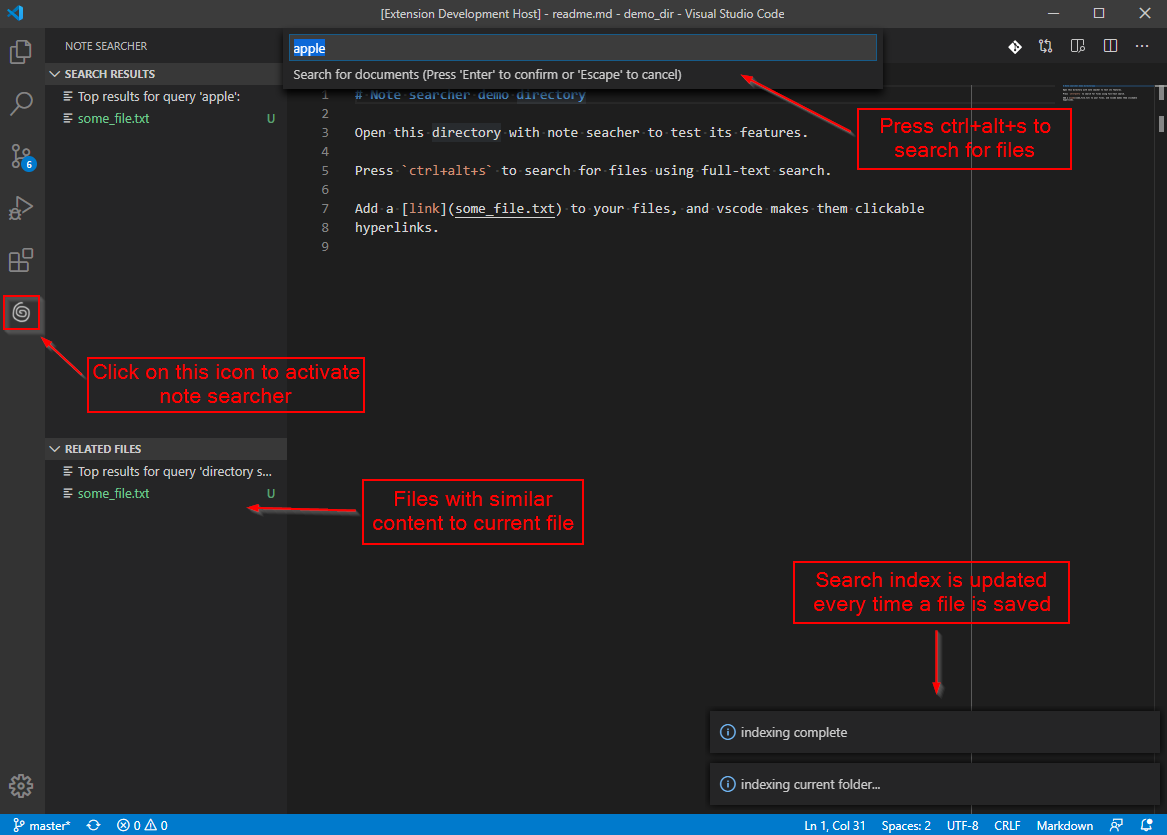
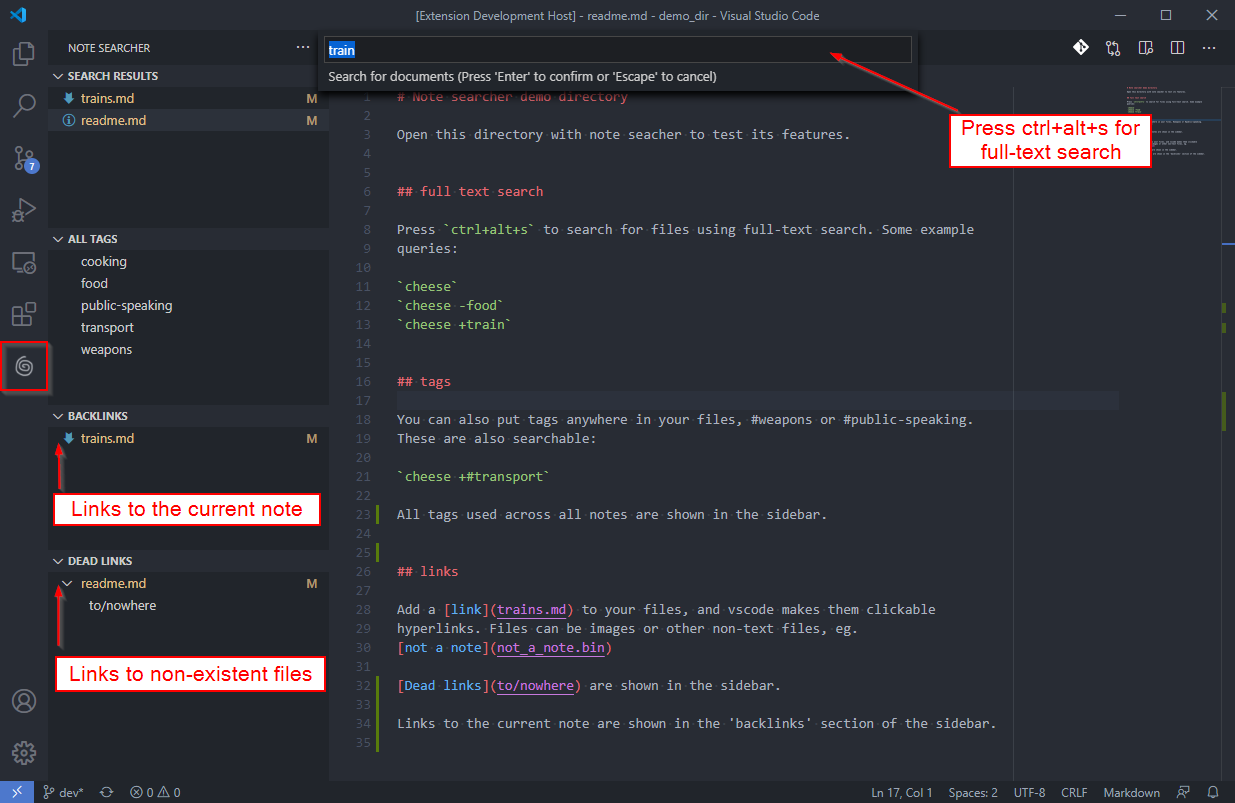
docs

diff --git a/vscode/README.md b/vscode/README.md
@@ -1,21 +1,32 @@
 # Note Searcher
 
-Tool for managing a knowledge base of text files, such as a zettelkasten.
+Tool for managing a knowledge base of text files, such as a zettelkasten. Works
+with a flat or hierarchical file structure. Similar to:
+
+- [The Archive](https://zettelkasten.de/the-archive/)
+- [Zettlr](https://www.zettlr.com/)
+- [Foam](https://foambubble.github.io/foam/)
 
 
 ## Feature summary
 
-- Full text search:  `ctrl+alt+s`
-- Create a new note: `ctrl+alt+n`
+- Full text search
+- Quick-create notes
 - Tag autocompletion
 - Copy markdown link to note from search results
 - Copy markdown link to note from editor tab
-- Find dead links
+- Shows backlinks in sidebar
+- Shows dead links in sidebar
+- Shows all tags in sidebar
 
 
 ## How to use this extension
 
 ![extension screenshot](./img/ext_screenshot.png)
+
+![create a new note](./img/new_note.png)
+
+![tag autocompletion](./img/tag_autocomplete.png)
 
 
 ### Full text search
@@ -40,10 +51,13 @@ tag-based searching. #hyphenated-tags are supported.
 When note searcher is enabled, typing '#' will show a list of tags which have
 been found in other files.
 
+All existing tags are shown in the sidebar, as per the screenshot.
+
 
 ### Creating notes
 
-Press `ctrl+alt+n` to create a new note in the currently open directory.
+Press `ctrl+alt+n` to create a new note in the same directory as the currently
+open note.
 
 
 ### Linking notes
@@ -57,10 +71,15 @@ You can copy a markdown-style link to a search result by right-clicking on
 the search result. You can also copy this link from an editor tab.
 
 
+### Backlinks
+
+Links to the currently open note are shown in backlinks section of the sidebar.
+
+
 ### Find dead links
 
-Dead links to other notes & local files are shown in the sidebar. Dead links
-are updated whenever a file is saved.
+Markdown links to files that can't be found are shown in the dead links section
+of the sidebar.
 
 
 ## UNDER CONSTRUCTION

diff --git a/readme.md b/readme.md
@@ -50,16 +50,6 @@ Run `npm run build_vsix` in the vscode directory.
 
 
 # todo
-- docs:
-    - add better subtitle than 'searches notes' in marketplace text
-    - reference similar software
-        - like [markdown notes](https://github.com/kortina/vscode-markdown-notes),
-          zettlr etc.
-    - update screenshots
-      - dead links
-      - backlinks
-      - tags
-      - removed related files
 - release
 - improve: activate extension immediately if already enabled in
   current dir (don't wait for activation events)

diff --git a/vscode/demo_dir/readme.md b/vscode/demo_dir/readme.md
@@ -20,9 +20,15 @@ These are also searchable:
 
 `cheese +#transport`
 
+All tags used across all notes are shown in the sidebar.
+
 
 ## links
 
 Add a [link](trains.md) to your files, and vscode makes them clickable
 hyperlinks. Files can be images or other non-text files, eg.
 [not a note](not_a_note.bin)
+
+[Dead links](to/nowhere) are shown in the sidebar.
+
+Links to the current note are shown in the 'backlinks' section of the sidebar.

diff --git a/vscode/demo_dir/trains.md b/vscode/demo_dir/trains.md
@@ -3,3 +3,5 @@
 #transport
 
 Trains run on rails. Sometimes, cheese is served on nice trains.
+
+See the [readme](readme.md).
